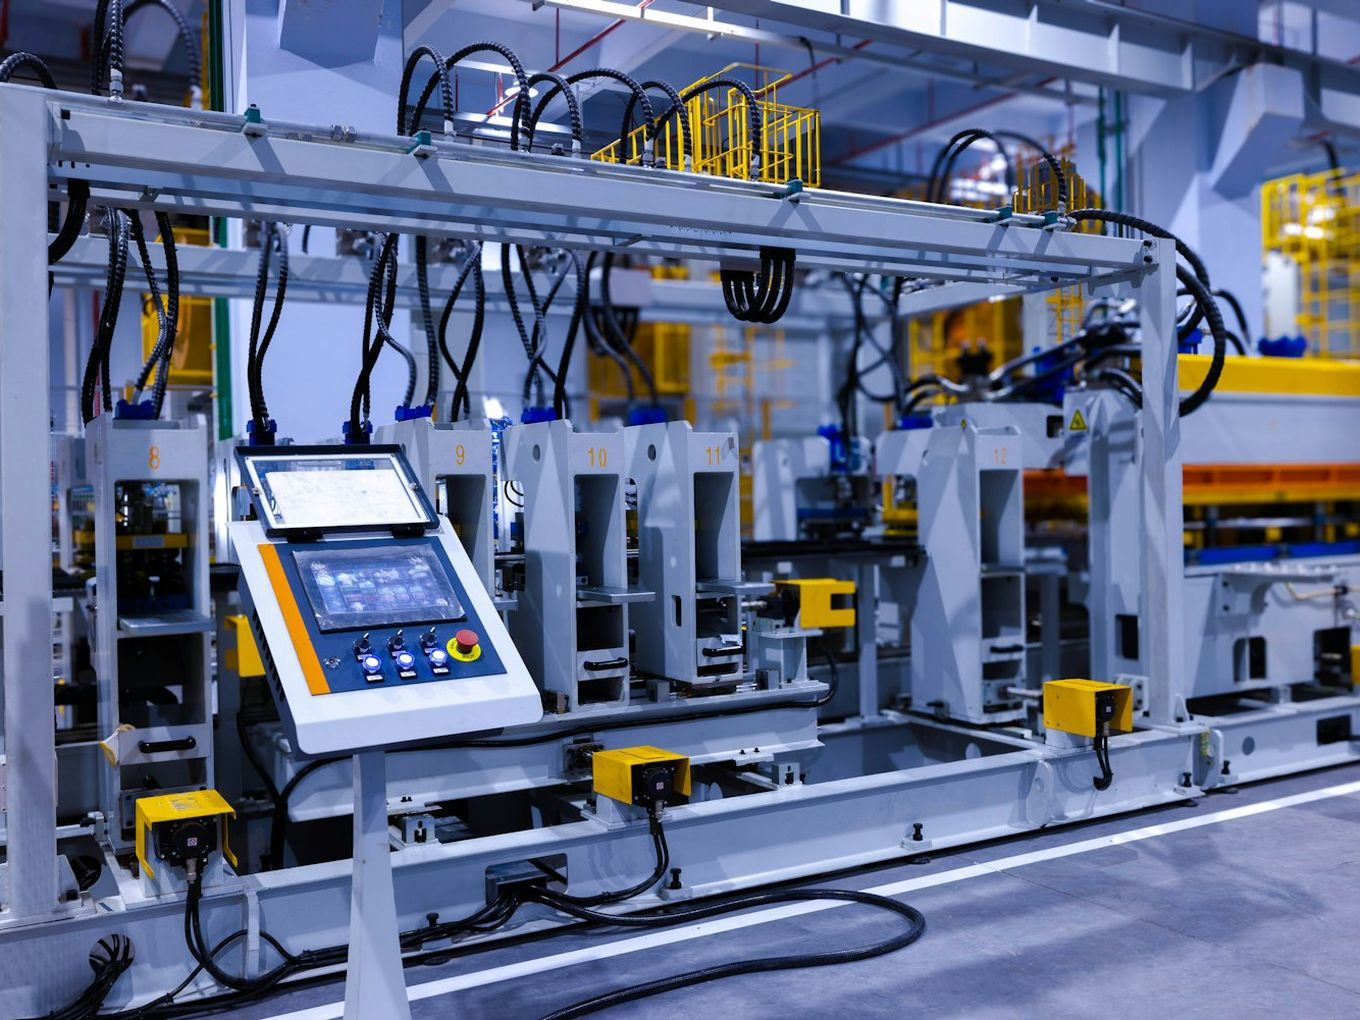
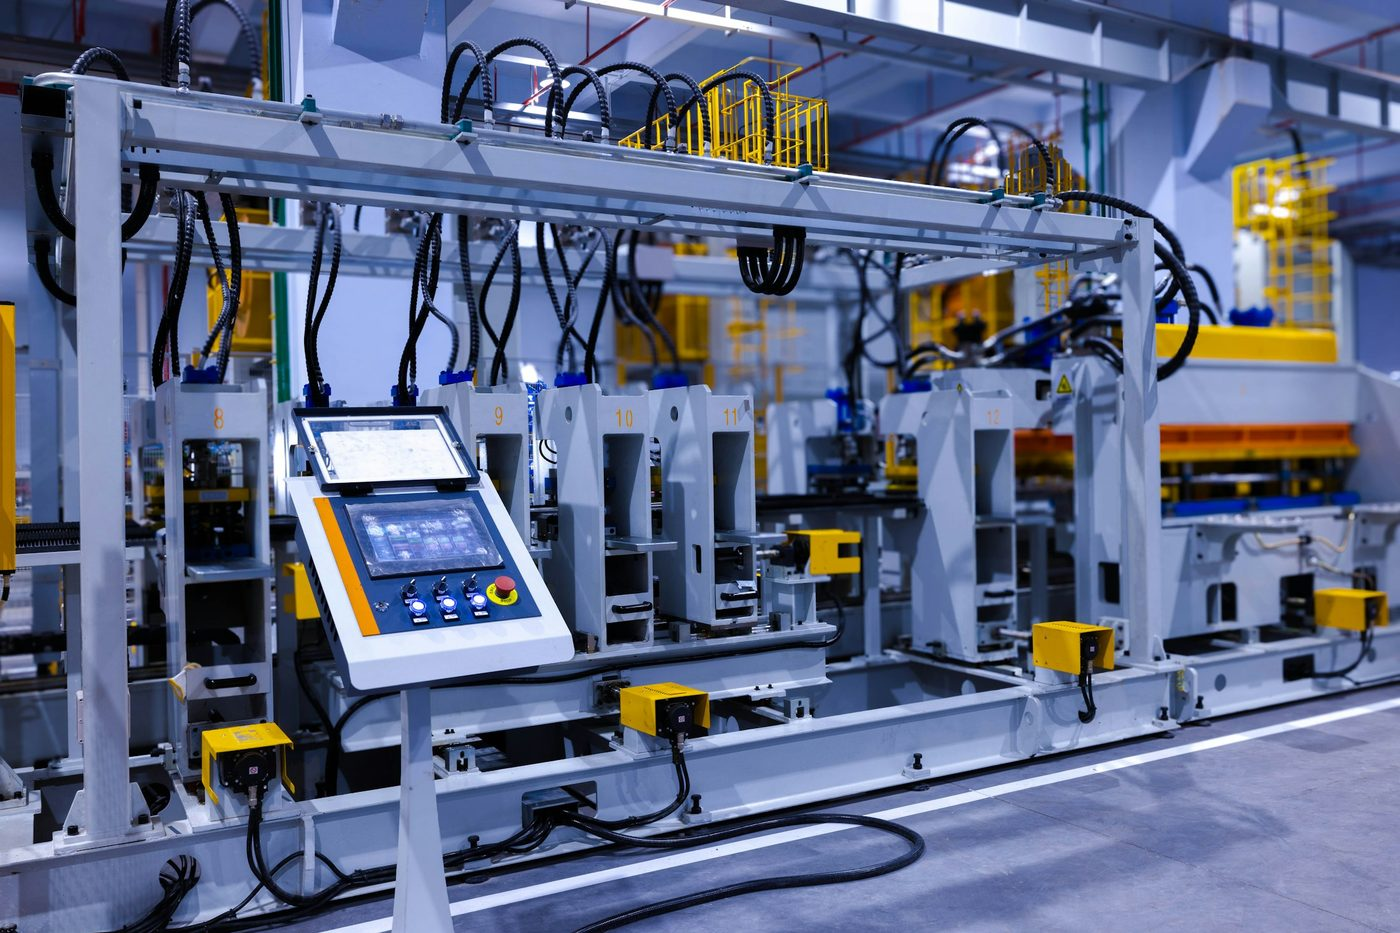
Imágenes a 1400x933, la medida de las anteriores
Estaban a 1360x1020 (4:3, la proporción final a la que recorta el CSS). Pasan
a 1400x933, la misma medida que tenían las imágenes a las que sustituyen, y el
recorte a 4:3 vuelve a hacerlo el navegador con object-fit:cover.

Se regeneraron desde el original a 2200px de ancho en lugar de reescalar las
de 1360px, para no ampliar y perder nitidez. width/height del marcado y
CREDITS.md actualizados.

diff --git a/partials/page-inicio.html b/partials/page-inicio.html
@@ -67,7 +67,7 @@
           </div>
           <div class="about-visual reveal-right">
             <figure class="content-figure">
-              <img src="EVOLUTEK/img/ofrecemos.jpg" width="1360" height="1020" loading="lazy"
+              <img src="EVOLUTEK/img/ofrecemos.jpg" width="1400" height="933" loading="lazy"
                    alt="Tendido de tubería de proceso con válvulas actuadas e instrumentación de campo">
             </figure>
           </div>
@@ -82,7 +82,7 @@
         <div class="about-layout about-layout--reverse">
           <div class="about-visual reveal-left">
             <figure class="content-figure">
-              <img src="EVOLUTEK/img/iiot.jpg" width="1360" height="1020" loading="lazy"
+              <img src="EVOLUTEK/img/iiot.jpg" width="1400" height="933" loading="lazy"
                    alt="Línea de producción con panel de control HMI y sensores conectados en planta">
             </figure>
           </div>

diff --git a/EVOLUTEK/img/CREDITS.md b/EVOLUTEK/img/CREDITS.md
@@ -5,6 +5,7 @@
 | `ofrecemos.jpg` | Unsplash — `photo-1620203853151-496c7228306c` | [Unsplash License](https://unsplash.com/license): uso comercial libre, sin atribución obligatoria |
 | `iiot.jpg` | Unsplash — `photo-1717386255773-a456c611dc4e` | [Unsplash License](https://unsplash.com/license): uso comercial libre, sin atribución obligatoria |
 
-Ambas se recortaron a 4:3 (1360 × 1020) porque es la proporción a la que
-`.content-figure img` recorta con `object-fit: cover`, y se guardaron como JPEG
-progresivo de calidad 80.
+Ambas se recortaron a **1400 × 933**, la misma medida que tenían las imágenes a
+las que sustituyen, y se guardaron como JPEG progresivo de calidad 82. El
+recorte final a 4:3 lo hace el navegador con `object-fit: cover` en
+`.content-figure img`.
